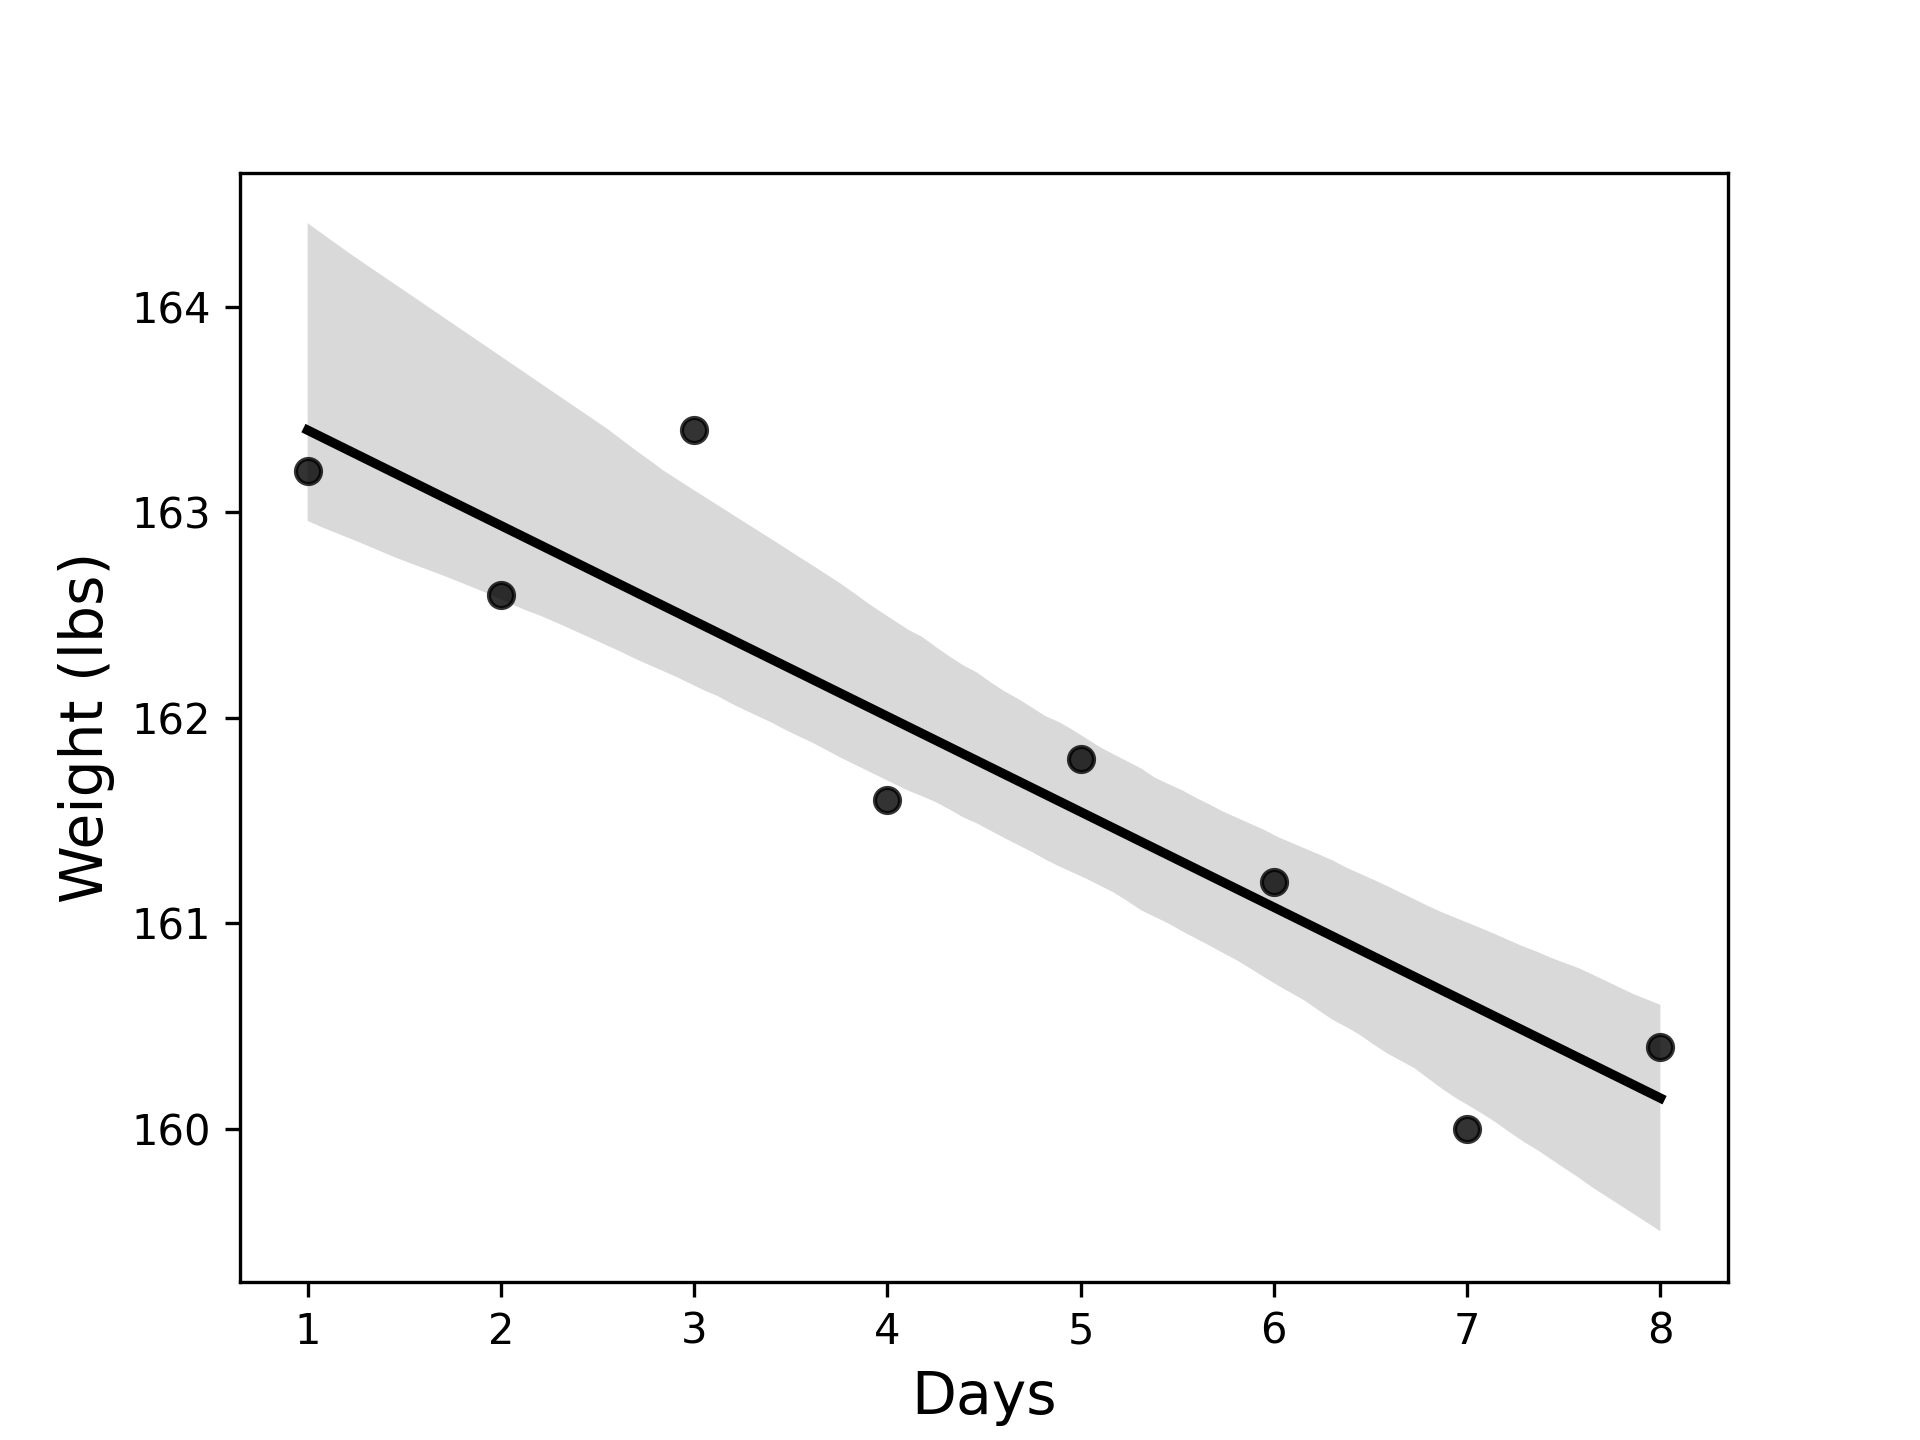
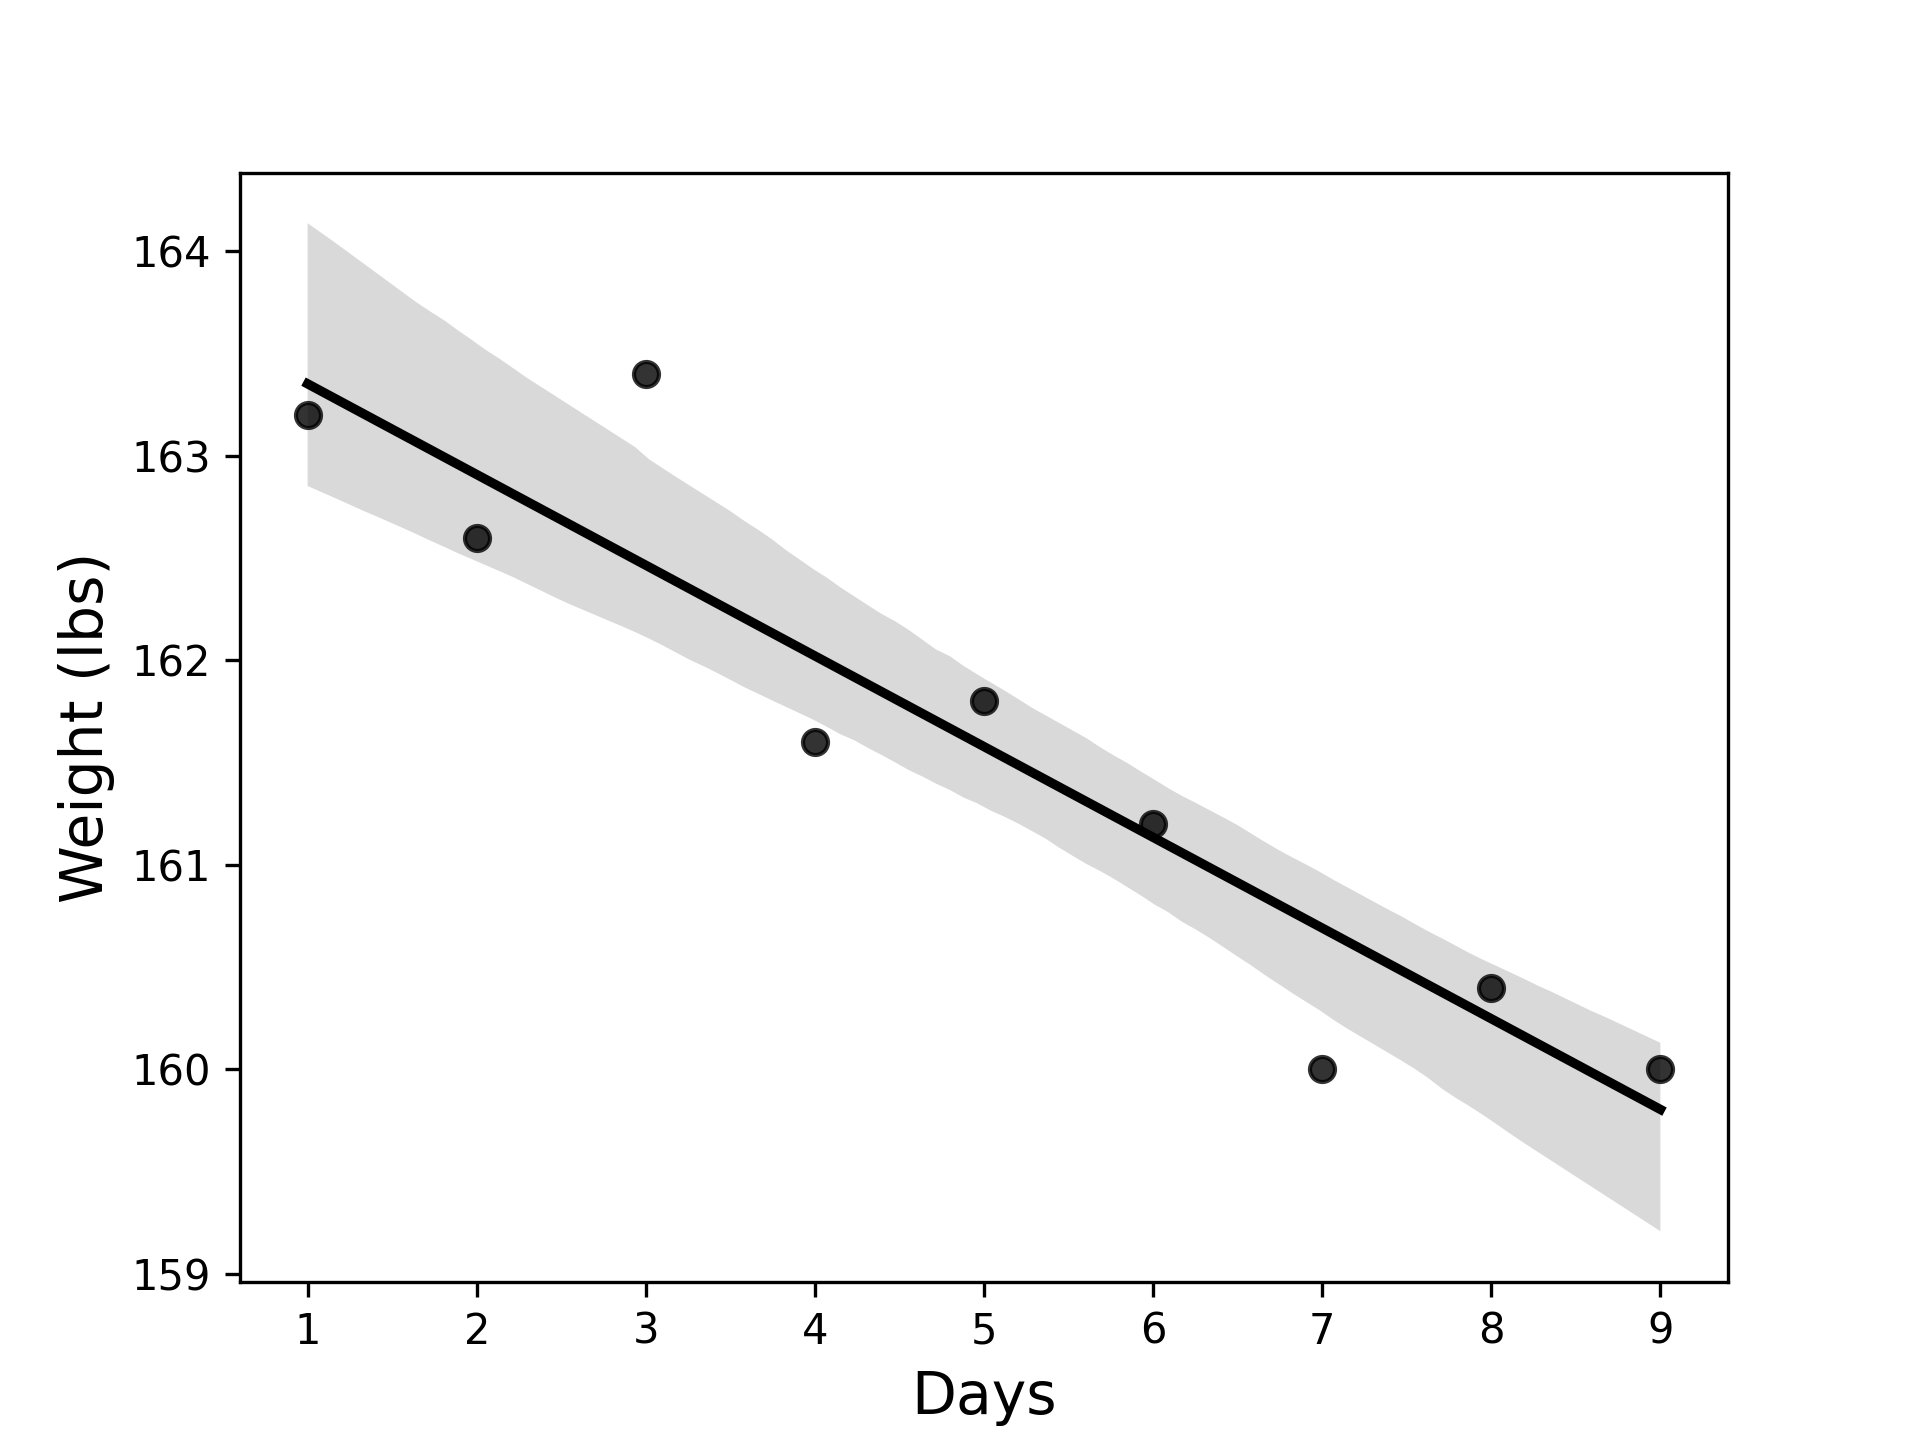
Updated weight.py and weight.png

diff --git a/Weight.py b/Weight.py
@@ -5,8 +5,8 @@ import matplotlib.pyplot as plt
 import seaborn as sns
 
 # Creates an array of elapsed days and assigns it to days_elapsed
-days_elapsed = np.array([1, 2, 3 ,4, 5, 6, 7, 8]).reshape(-1,1)
-weight = np.array([163.2, 162.6, 163.4, 161.6, 161.8, 161.2, 160.0, 160.4])
+days_elapsed = np.array([1, 2, 3 ,4, 5, 6, 7, 8, 9]).reshape(-1,1)
+weight = np.array([163.2, 162.6, 163.4, 161.6, 161.8, 161.2, 160.0, 160.4, 160.0])
 
 # Instantiates a LinearRegression model and fits it to the above arrays
 model = sklearn.linear_model.LinearRegression().fit(days_elapsed,weight)
